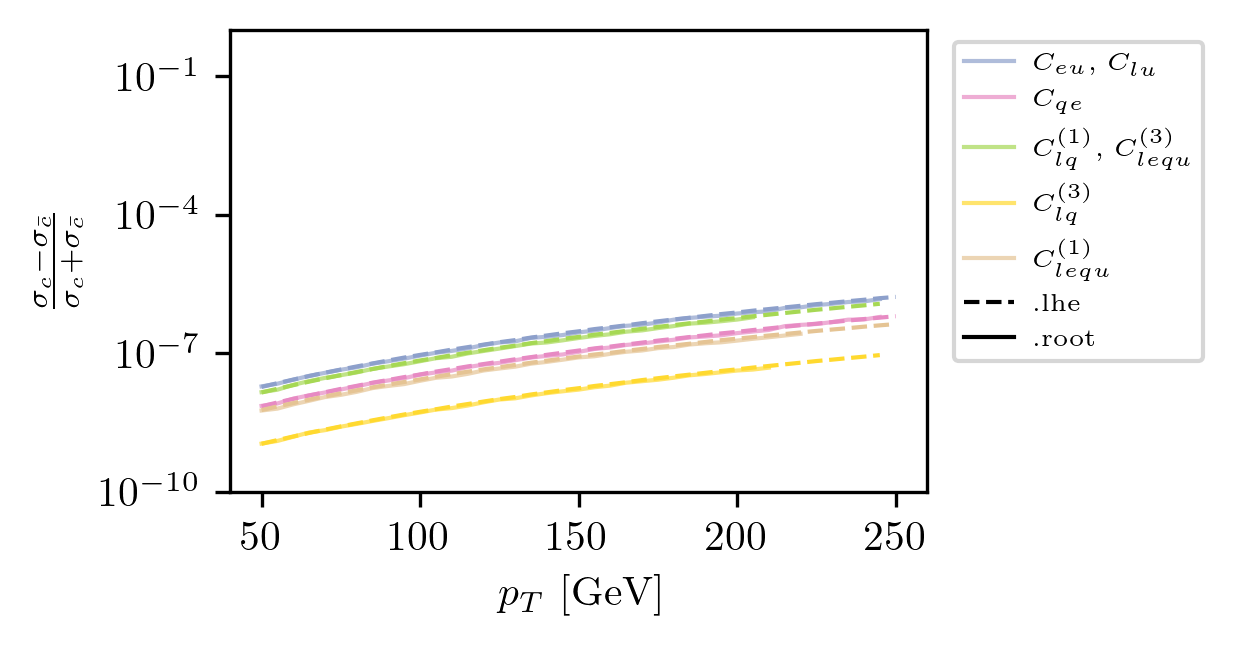
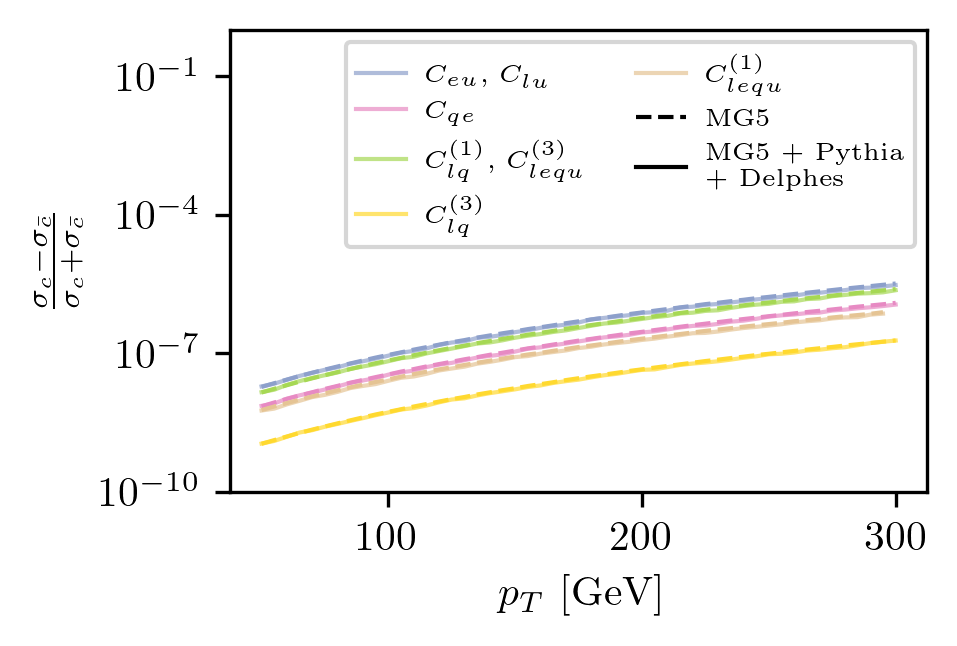
final changes

diff --git a/code_complete/graphs_both/wils_electron_log.py b/code_complete/graphs_both/wils_electron_log.py
@@ -14,7 +14,7 @@ fig_path = f"{main}/graphs_complete/wils_electron_log_both.png"
 # Pot do datoteke z rezultati
 result_file_path = f"{main}/results_complete/wils_electron_log.dat"
 #Za katere Wilsonove koeficiente narišemo grafe. Možnosti: "eu", "lu", "qe", "lq1", "lq3", "lequ1", "lequ3", "uB", "uW"
-Wilson_coefficients = ["eu", "lu", "qe", "lq1", "lq3", "lequ1", "lequ3"]
+Wilson_coefficients = ["eu", "lequ1", "lequ3"]
 #Kateri delec nastane na koncu. Možnosti "electron" (proces p p > c e+ e-), "photon" (proces p p > c a)
 particle = "electron"
 #Za katero neodvsno spremenljivko narišemo grafe. Možnosti: "pt", "wils"
@@ -258,12 +258,12 @@ for wils in Wilson_coefficients:
     plt.plot(xaxis_values, asymetry_values, linestyle="--")
     plt.plot(xaxis_values, eff_asymetry_values, alpha=0.7, label=label)
 
-plt.plot([], [], color="black", linestyle="--", label="MadGraph5")
-plt.plot([], [], color="black", label="MadGraph5 + Pythia + Delphes")
+plt.plot([], [], color="black", linestyle="--", label="MG5")
+plt.plot([], [], color="black", label="MG5 + Pythia"+"\n"+"+ Delphes")
 
 plt.xlabel(xlabel)                                                               
 plt.ylabel(r"$\frac{\sigma_c - \sigma_{\bar{c}}}{\sigma_c + \sigma_{\bar{c}}}$")
-plt.legend()
+plt.legend(loc="lower right")
 plt.savefig(fig_path)                              
 plt.show()
 

diff --git a/code_complete/graphs_both/wils_electron.py b/code_complete/graphs_both/wils_electron.py
@@ -55,7 +55,7 @@ plt.rcParams.update({
 })
 
 plt.figure()
-plt.ylim((-0.05, 1))
+plt.ylim((-0.2, 1))
 
 if variable == "pt":
     prefix = "pt"
@@ -251,14 +251,14 @@ for wils in Wilson_coefficients:
     elif "3" in wils:
         label = rf"$C_{{{wils[:-1]}}}^{{(3)}}$"
     elif wils == "eu":
-        label = r"$C_{eu}$, $C_{lu}$, $C_{qe}$,"+"\n"+r"$C_{lq}^{(1)}$, $C_{lq}^{(3)}$"
+        label = r"$C_{eu}$, $C_{lu}$, $C_{qe}$, $C_{lq}^{(1)}$, $C_{lq}^{(3)}$"
         
     
     plt.plot(xaxis_values, asymetry_values, linestyle="--")
     plt.plot(xaxis_values, eff_asymetry_values, alpha=0.7, label=label)
 
-plt.plot([], [], color="black", linestyle="--", label="MadGraph5")
-plt.plot([], [], color="black", label="MadGraph5 + Pythia + Delphes")
+plt.plot([], [], color="black", linestyle="--", label="MG5")
+plt.plot([], [], color="black", label="MG5 + Pythia + Delphes")
 
 plt.xlabel(xlabel)                                                               
 plt.ylabel(r"$\frac{\sigma_c - \sigma_{\bar{c}}}{\sigma_c + \sigma_{\bar{c}}}$")

diff --git a/code_complete/graphs_both/pt_photon_C_1.py b/code_complete/graphs_both/pt_photon_C_1.py
@@ -57,6 +57,7 @@ plt.rcParams.update({
 plt.figure()
 plt.yscale("log", base=10)
 plt.ylim((1e-4,1))
+plt.title(rf"$C={{{pt_photon_C_value}}}$")
 
 if variable == "pt":
     prefix = "pt"
@@ -255,8 +256,8 @@ for wils in Wilson_coefficients:
     plt.plot(xaxis_values, asymetry_values, linestyle="--")
     plt.plot(xaxis_values, eff_asymetry_values, alpha=0.7, label=label)
 
-plt.plot([], [], color="black", linestyle="--", label="MadGraph5")
-plt.plot([], [], color="black", label="MadGraph5 + Pythia + Delphes")
+plt.plot([], [], color="black", linestyle="--", label="MG5")
+plt.plot([], [], color="black", label="MG5 + Pythia + Delphes")
 
 plt.xlabel(xlabel)                                                               
 plt.ylabel(r"$\frac{\sigma_c - \sigma_{\bar{c}}}{\sigma_c + \sigma_{\bar{c}}}$")

diff --git a/code_complete/graphs_both/pt_electron.py b/code_complete/graphs_both/pt_electron.py
@@ -260,12 +260,12 @@ for wils in Wilson_coefficients:
     plt.plot(xaxis_values, asymetry_values, linestyle="--")
     plt.plot(xaxis_values, eff_asymetry_values, alpha=0.7, label=label)
 
-plt.plot([], [], color="black", linestyle="--", label="MadGraph")
-plt.plot([], [], color="black", label="MadGraph + Pythia + Delphes")
+plt.plot([], [], color="black", linestyle="--", label="MG5")
+plt.plot([], [], color="black", label="MG5 + Pythia"+"\n"+"+ Delphes")
 
 plt.xlabel(xlabel)                                                               
 plt.ylabel(r"$\frac{\sigma_c - \sigma_{\bar{c}}}{\sigma_c + \sigma_{\bar{c}}}$")
-plt.legend()
+plt.legend(ncol=2, loc="upper right")
 plt.savefig(fig_path)                              
 plt.show()
 

diff --git a/code_complete/graphs_both/pt_photon_C_0.01.py b/code_complete/graphs_both/pt_photon_C_0.01.py
@@ -256,8 +256,8 @@ for wils in Wilson_coefficients:
     plt.plot(xaxis_values, asymetry_values, linestyle="--")
     plt.plot(xaxis_values, eff_asymetry_values, alpha=0.7, label=label)
 
-plt.plot([], [], color="black", linestyle="--", label="MadGraph5")
-plt.plot([], [], color="black", label="MadGraph5 + Pythia + Delphes")
+plt.plot([], [], color="black", linestyle="--", label="MG5")
+plt.plot([], [], color="black", label="MG5 + Pythia + Delphes")
 
 plt.xlabel(xlabel)                                                               
 plt.ylabel(r"$\frac{\sigma_c - \sigma_{\bar{c}}}{\sigma_c + \sigma_{\bar{c}}}$")

diff --git a/code_complete/graphs_both/pt_photon_C_0.1.py b/code_complete/graphs_both/pt_photon_C_0.1.py
@@ -257,8 +257,8 @@ for wils in Wilson_coefficients:
     plt.plot(xaxis_values, asymetry_values, linestyle="--")
     plt.plot(xaxis_values, eff_asymetry_values, alpha=0.7, label=label)
 
-plt.plot([], [], color="black", linestyle="--", label="MadGraph5")
-plt.plot([], [], color="black", label="MadGraph5 + Pythia + Delphes")
+plt.plot([], [], color="black", linestyle="--", label="MG5")
+plt.plot([], [], color="black", label="MG5 + Pythia + Delphes")
 
 plt.xlabel(xlabel)                                                               
 plt.ylabel(r"$\frac{\sigma_c - \sigma_{\bar{c}}}{\sigma_c + \sigma_{\bar{c}}}$")

diff --git a/code_complete/graphs_both/wils_photon.py b/code_complete/graphs_both/wils_photon.py
@@ -254,8 +254,8 @@ for wils in Wilson_coefficients:
     plt.plot(xaxis_values, asymetry_values, linestyle="--")
     plt.plot(xaxis_values, eff_asymetry_values, alpha=0.7, label=label)
 
-plt.plot([], [], color="black", linestyle="--", label="MadGraph5")
-plt.plot([], [], color="black", label="MadGraph5 + Pythia + Delphes")
+plt.plot([], [], color="black", linestyle="--", label="MG5")
+plt.plot([], [], color="black", label="MG5 + Pythia + Delphes")
 
 plt.xlabel(xlabel)                                                               
 plt.ylabel(r"$\frac{\sigma_c - \sigma_{\bar{c}}}{\sigma_c + \sigma_{\bar{c}}}$")

diff --git a/code_complete/graphs_both/wils_photon_log.py b/code_complete/graphs_both/wils_photon_log.py
@@ -256,8 +256,8 @@ for wils in Wilson_coefficients:
     plt.plot(xaxis_values, asymetry_values, linestyle="--")
     plt.plot(xaxis_values, eff_asymetry_values, alpha=0.7, label=label)
 
-plt.plot([], [], color="black", linestyle="--", label="MadGraph5")
-plt.plot([], [], color="black", label="MadGraph5 + Pythia + Delphes")
+plt.plot([], [], color="black", linestyle="--", label="MG5")
+plt.plot([], [], color="black", label="MG5 + Pythia + Delphes")
 
 plt.xlabel(xlabel)                                                               
 plt.ylabel(r"$\frac{\sigma_c - \sigma_{\bar{c}}}{\sigma_c + \sigma_{\bar{c}}}$")
